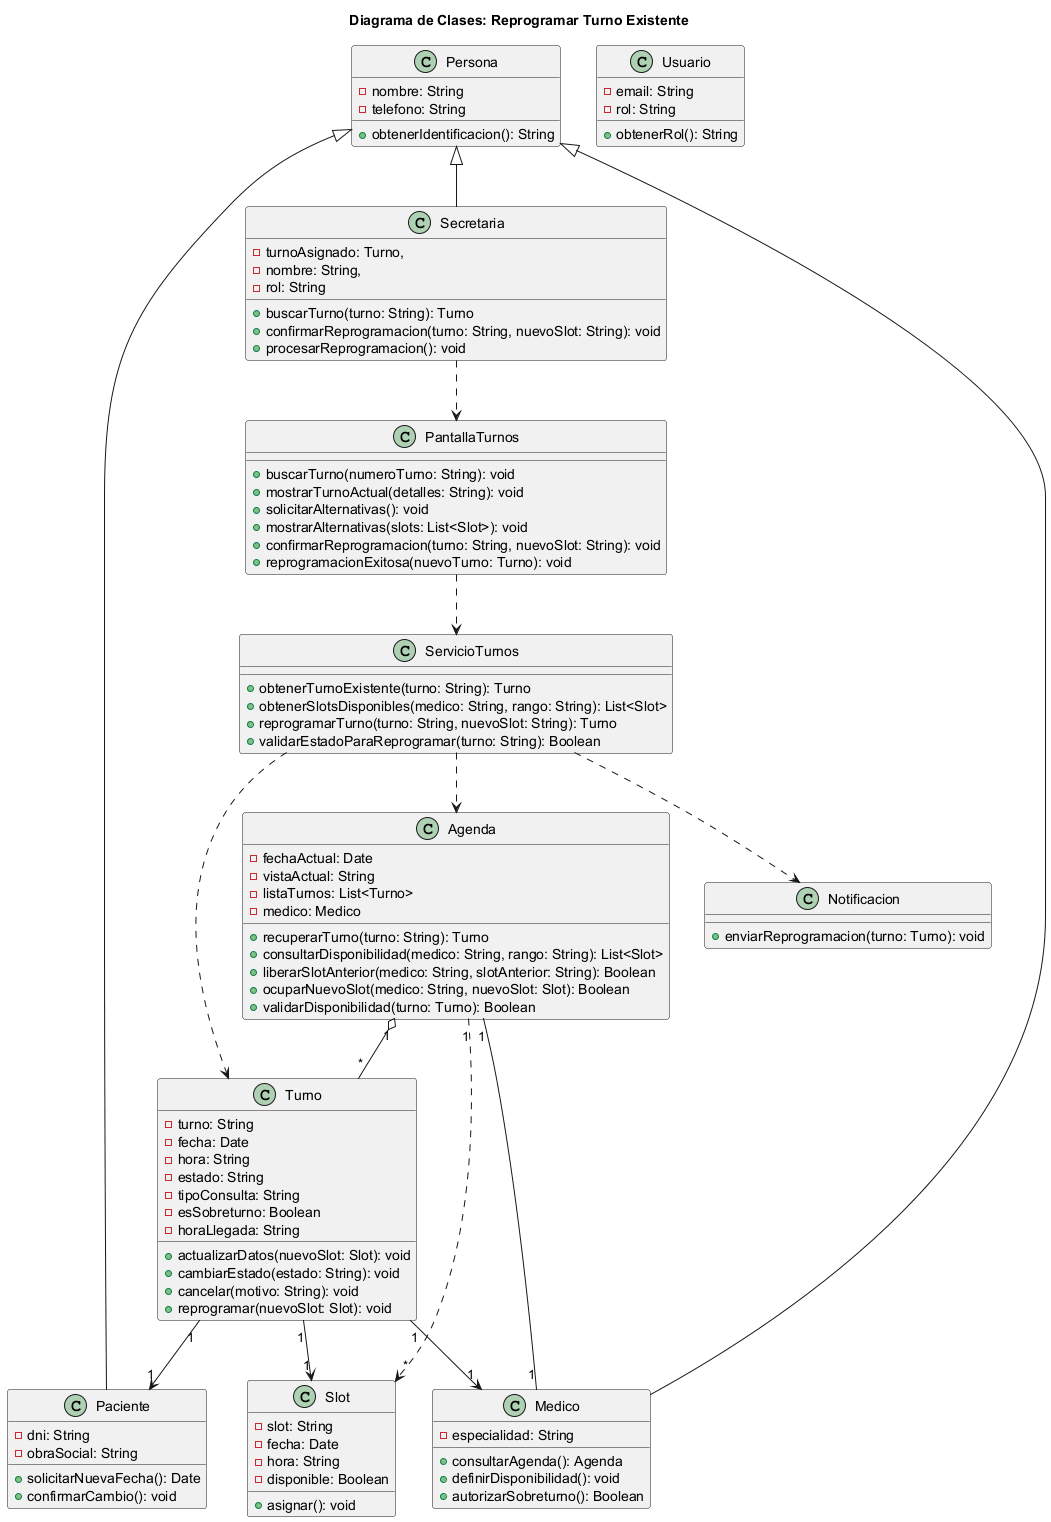
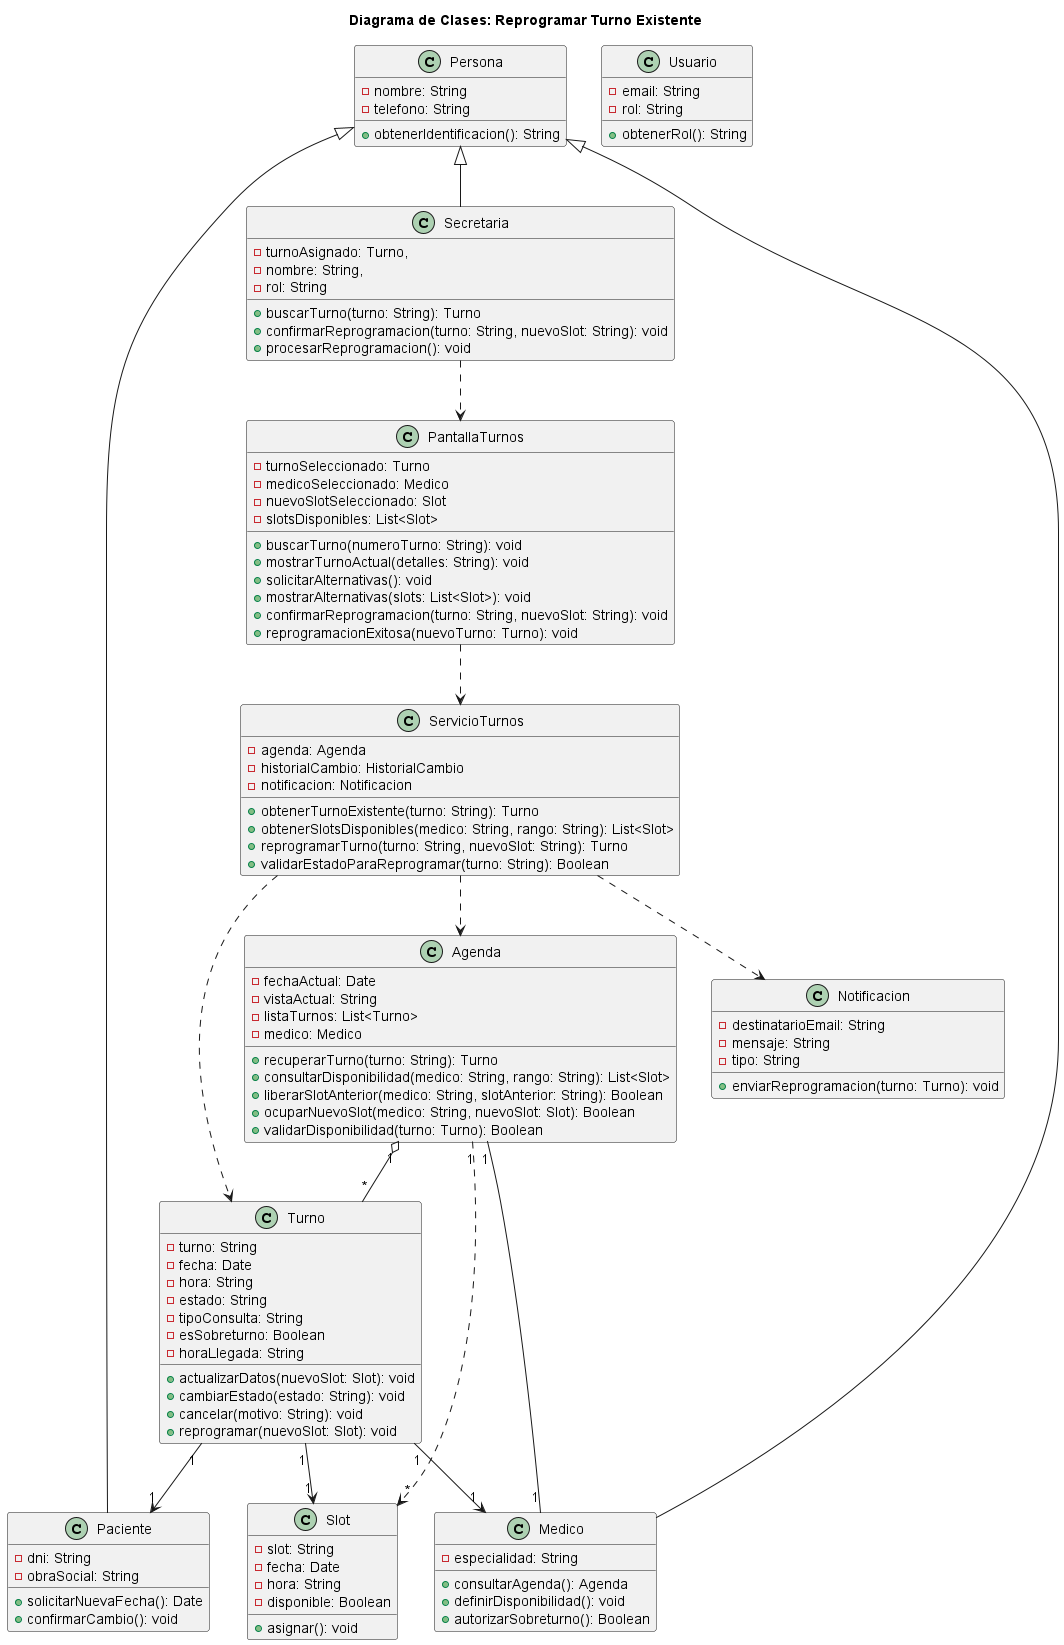
Correccion de pseudocodigo y se agregan atributos

diff --git a/anexos/analisis-funcional/02-caso-de-uso-reprogramar-turno.md b/anexos/analisis-funcional/02-caso-de-uso-reprogramar-turno.md
@@ -130,78 +130,66 @@ Cambia la fecha o el horario de una cita ya pactada a solicitud del médico o pa
 ```text
 INICIO Reprogramar Turno Existente
 
-// Se crean o recuperan los objetos que participan en el caso de uso
-pantalla ← PantallaTurnos
-servicio ← ServicioTurnos
+// La secretaria inicia el proceso de reprogramación de un turno.
+secretaria ← nueva Secretaria
 
-// La secretaria busca el turno que desea reprogramar desde la pantalla
+// Se crean los objetos que participan en el caso de uso.
+pantalla ← nueva PantallaTurnos
+servicio ← nuevo ServicioTurnos
+agenda ← nueva Agenda
+notificacion ← nueva Notificacion
+
+// La secretaria busca el turno que debe reprogramarse.
 pantalla.buscarTurno(numeroTurno)
+turno ← servicio.obtenerTurnoExistente(numeroTurno)
 
-// Se recupera el turno solicitado
-turno ← servicio.obtenerTurnoExistente(turno)
-
-SI turno ES NULO
+SI turno ES NULO ENTONCES
+    // No se encuentra el turno solicitado en el sistema.
     pantalla.mostrarError("Turno no encontrado")
     FIN
 FIN SI
 
-// Se muestran los datos del turno actual para verificarlos
+// El sistema muestra la información actual del turno para validar el cambio.
 pantalla.mostrarTurnoActual(detalles)
 
-// La secretaria solicita consultar horarios alternativos
+// La secretaria pide opciones de fechas y horarios alternativos.
 pantalla.solicitarAlternativas()
-
-// Se obtienen los horarios disponibles para el profesional
 slots ← servicio.obtenerSlotsDisponibles(medico, rango)
 
-SI slots ESTÁ VACÍO
+SI slots ESTÁ VACÍO ENTONCES
+    // No hay horarios libres para el mismo médico en el rango solicitado.
     pantalla.mostrarError("No hay horarios disponibles")
     FIN
 FIN SI
 
-// La pantalla muestra las alternativas disponibles para seleccionar un nuevo horario
+// El sistema presenta las alternativas de horario válidas.
 pantalla.mostrarAlternativas(slots)
 
-// Se confirma la reprogramación utilizando el horario seleccionado
-pantalla.confirmarReprogramacion(turno, nuevoSlot)
+// La secretaria selecciona el nuevo turno y confirma la reprogramación.
+secretaria.confirmarReprogramacion(turno, nuevoSlot)
 
-// El servicio actualiza el turno con el nuevo horario
+// El servicio valida que el turno puede ser cambiado.
+esValido ← servicio.validarEstadoParaReprogramar(turno)
+
+SI esValido ES FALSO ENTONCES
+    pantalla.mostrarError("El turno no puede reprogramarse")
+    FIN
+FIN SI
+
+// El servicio aplica el nuevo horario al turno existente.
 turnoReprogramado ← servicio.reprogramarTurno(turno, nuevoSlot)
 
-// Se informa que la reprogramación fue realizada correctamente
+// El sistema notifica que la reprogramación se completó.
+notificacion.enviarReprogramacion(turnoReprogramado)
+
+// La interfaz confirma el resultado al usuario.
 pantalla.reprogramacionExitosa(turnoReprogramado)
 
 FIN
 ```
 
-```text
-IMPLEMENTACIÓN DE DOMINIO: ServicioTurnos.reprogramarTurno(turno, nuevoSlot)
 
-turno ← servicio.obtenerTurnoExistente(turno)
 
-SI turno ES NULO
-    RETORNAR ERROR("Turno inexistente")
-FIN SI
-
-SI turno.estado NO ESTÁ EN ["Programado"]
-    RETORNAR ERROR("Estado del turno no permite reprogramación")
-FIN SI
-
-éxitoOcupar ← Agenda.ocuparNuevoSlot(turno.medico, nuevoSlot)
-
-SI NO éxitoOcupar
-    RETORNAR ERROR("Conflicto de agenda: slot ya reservado o regla de sobreturno violada")
-FIN SI
-
-Agenda.liberarSlotAnterior(turno.medico, turno.slot)
-turno.actualizarSlot(nuevoSlot)
-turno.cambiarEstado("REPROGRAMADO")
-servicio.registrarHistorialCambio(turno, evento="Reprogramación", realizadoPor="Secretaria")
-servicio.persistir(turno)
-servicio.emitirEventoReprogramacion(turno)
-
-RETORNAR OK
-```
 
 **Trazabilidad del pseudocódigo:**
 - Flujo principal (§1): Se ejecutan los 5 pasos exactamente en el mismo orden

diff --git a/anexos/analisis-funcional/03-caso-de-uso-cancelar-turno.md b/anexos/analisis-funcional/03-caso-de-uso-cancelar-turno.md
@@ -133,39 +133,53 @@ Anula una reserva de turno liberando el espacio en la agenda médica.
 
 ## 6. Pseudocódigo
 
-```text
+```
 INICIO Cancelar Turno
 
-// La secretaria o el paciente seleccionan el turno que desean cancelar
-PantallaTurnos.buscarTurno(numeroTurno)
+// La secretaria inicia el proceso de cancelación de un turno.
+secretaria ← nueva Secretaria
 
-// Se recupera el turno solicitado
-turno ← ServicioTurnos.obtenerTurnoExistente(turno)
+// Se crean los objetos que participan en el caso de uso.
+pantalla ← nueva PantallaTurnos
+servicio ← nuevo ServicioTurnos
+agenda ← nueva Agenda
+notificacion ← nueva Notificacion
 
-SI turno es NULO
+// La secretaria busca el turno que se desea cancelar.
+pantalla.buscarTurno(numeroTurno)
+turno ← servicio.obtenerTurnoExistente(numeroTurno)
+
+SI turno ES NULO ENTONCES
+    // El sistema no encuentra el turno solicitado.
+    pantalla.mostrarError("Turno no encontrado")
     FIN
 FIN SI
 
-// Se verifica que el turno pueda cancelarse según las reglas del sistema
-SI NO ServicioTurnos.validarEstadoParaCancelar(turno)
+// Se valida que el turno esté en un estado que permita su anulación.
+esValido ← servicio.validarEstadoParaCancelar(turno)
+
+SI esValido ES FALSO ENTONCES
+    // El turno no cumple las condiciones para cancelar su reserva.
+    pantalla.mostrarError("El turno no puede cancelarse")
     FIN
 FIN SI
 
-// Se solicita la cancelación del turno seleccionado
-PantallaTurnos.procesarCancelacion(turno)
+// La secretaria confirma la cancelación de la reserva.
+secretaria.confirmarCancelacion(turno)
 
-// El servicio registra la cancelación del turno
-turnoCancelado ← ServicioTurnos.cancelarTurno(turno, motivoCancelacion)
+// La pantalla inicia la operación de cancelación en el servicio.
+pantalla.procesarCancelacion(turno)
 
-// Se crea la notificación correspondiente a la cancelación
-notificacion ← ServicioTurnos.crearNotificacion(turnoCancelado, "CANCELACION")
+// El servicio marca el turno como cancelado.
+turnoCancelado ← servicio.cancelarTurno(turno, motivoCancelacion)
 
-// Se informa la cancelación al paciente y al profesional
+// Se genera la notificación de cancelación para los actores afectados.
+notificacion ← servicio.crearNotificacion(turnoCancelado, "CANCELACION")
 notificacion.enviarNotificacionPaciente(emailPaciente, motivoCancelacion)
 notificacion.enviarNotificacionMedico(emailMedico, detalles)
 
-// Se informa que la cancelación finalizó correctamente
-PantallaTurnos.cancelacionExitosa("Turno cancelado correctamente")
+// La interfaz confirma que la cancelación se completó.
+pantalla.cancelacionExitosa("Turno cancelado correctamente")
 
 FIN
 ```

diff --git a/anexos/analisis-funcional/01-caso-de-uso-registrar-turno-medico.md b/anexos/analisis-funcional/01-caso-de-uso-registrar-turno-medico.md
@@ -113,33 +113,46 @@ Registra un turno médico entre un paciente y un profesional, asegurando que no 
 ```text
 INICIO Registrar Turno Médico
 
-// Se crean o recuperan los objetos que participan en el caso de uso
-pantalla ← PantallaTurnos
-servicio ← ServicioTurnos
+// La secretaria inicia el proceso de registro de un turno.
+secretaria ← nueva Secretaria
 
-// La secretaria utiliza la pantalla para ingresar los datos del turno
+// Se crean los objetos que colaboran durante el caso de uso.
+pantalla ← nueva PantallaTurnos
+servicio ← nuevo ServicioTurnos
+agenda ← nueva Agenda
+historial ← nuevo HistorialCambio
+
+// El paciente solicita el turno y la secretaria ingresa los datos.
 pantalla.ingresarDatosPaciente()
 pantalla.seleccionarProfesional()
 pantalla.seleccionarFechaHora()
 
-// El servicio obtiene los horarios disponibles del profesional
+// El servicio pregunta a la agenda si el médico está disponible.
 slots ← servicio.obtenerSlotsDisponibles(medico, rango)
 
-SI slots está vacío
+SI slots está vacío ENTONCES
+    // No hay horarios libres para el médico en la consulta solicitada.
     pantalla.mostrarError("Horario no disponible")
     FIN
 FIN SI
 
-// La pantalla muestra los horarios disponibles
+// El sistema muestra las opciones de horario válidas para completar la reserva.
 pantalla.mostrarDisponibilidad(slots)
 
-// El servicio registra el nuevo turno
+// La secretaria elige un horario e indica al servicio crear el turno.
 turno ← servicio.registrarTurno(paciente, medico, slot)
 
-// El servicio registra el cambio realizado
+// El turno se marca como reservado y se incorpora en la agenda.
+turno.reservar()
+agenda.agregarTurno(turno)
+
+// La acción queda registrada para auditoría.
+historial.registrarCambio()
+
+// El servicio persiste la operación y devuelve el turno.
 servicio.guardarCambios(turno)
 
-// La pantalla informa que el turno fue registrado correctamente
+// El sistema muestra la confirmación de la reserva.
 pantalla.mostrarConfirmacion(turno)
 
 FIN

diff --git a/herramientas-agile/tarjetas-crc/09-tarjeta-crc-servicio-turnos.md b/herramientas-agile/tarjetas-crc/09-tarjeta-crc-servicio-turnos.md
@@ -6,10 +6,10 @@
 | **Superclase:** | — | | |
 | **Subclase:** | — | | |
 | **Responsabilidades** | **Colaboradores** | **Pensamiento del objeto** | **Propiedad** |
-| Validar disponibilidad para reprogramar un turno | Agenda, Turno, HistorialCambio, Medico, Paciente, sistema de notificaciones / eventos | Conozco la lógica de negocio para gestionar reprogramaciones: valido disponibilidad, coordino entre Agenda y Turno, registro cambios en HistorialCambio y emito eventos/notificaciones hacia la capa de presentación. | Servicio de dominio / controlador de caso de uso (inyectado por el contenedor de la aplicación) |
-| Reprogramar turno y registrar cambio | Agenda, Turno, HistorialCambio, Medico, Paciente | | |
-| Autorizar sobreturno cuando corresponde | Agenda, Turno, Medico | | |
-| Emitir evento de reprogramación | HistorialCambio, sistema de notificaciones / eventos | | |
+| Validar disponibilidad para reprogramar un turno | Agenda, Turno, HistorialCambio, Medico | Coordino la consulta de disponibilidad y verifico las reglas de negocio antes de permitir una reprogramación. | agenda: Agenda |
+| Reprogramar turno y registrar cambio | Agenda, Turno, HistorialCambio | Coordino la actualización del turno y registro el cambio realizado. | historialCambio: HistorialCambio |
+| Autorizar sobreturno cuando corresponde | Agenda, Medico | Verifico si corresponde autorizar un sobreturno según las reglas del sistema. | notificacion: Notificacion |
+| Emitir evento de reprogramación | Notificacion | Genero la notificación correspondiente una vez completada la reprogramación. | |
 
 **Notas:** Implementar como servicio de aplicación que orquesta entidades del dominio; debe ser transaccional y registrar en `HistorialCambio` toda reprogramación.
 